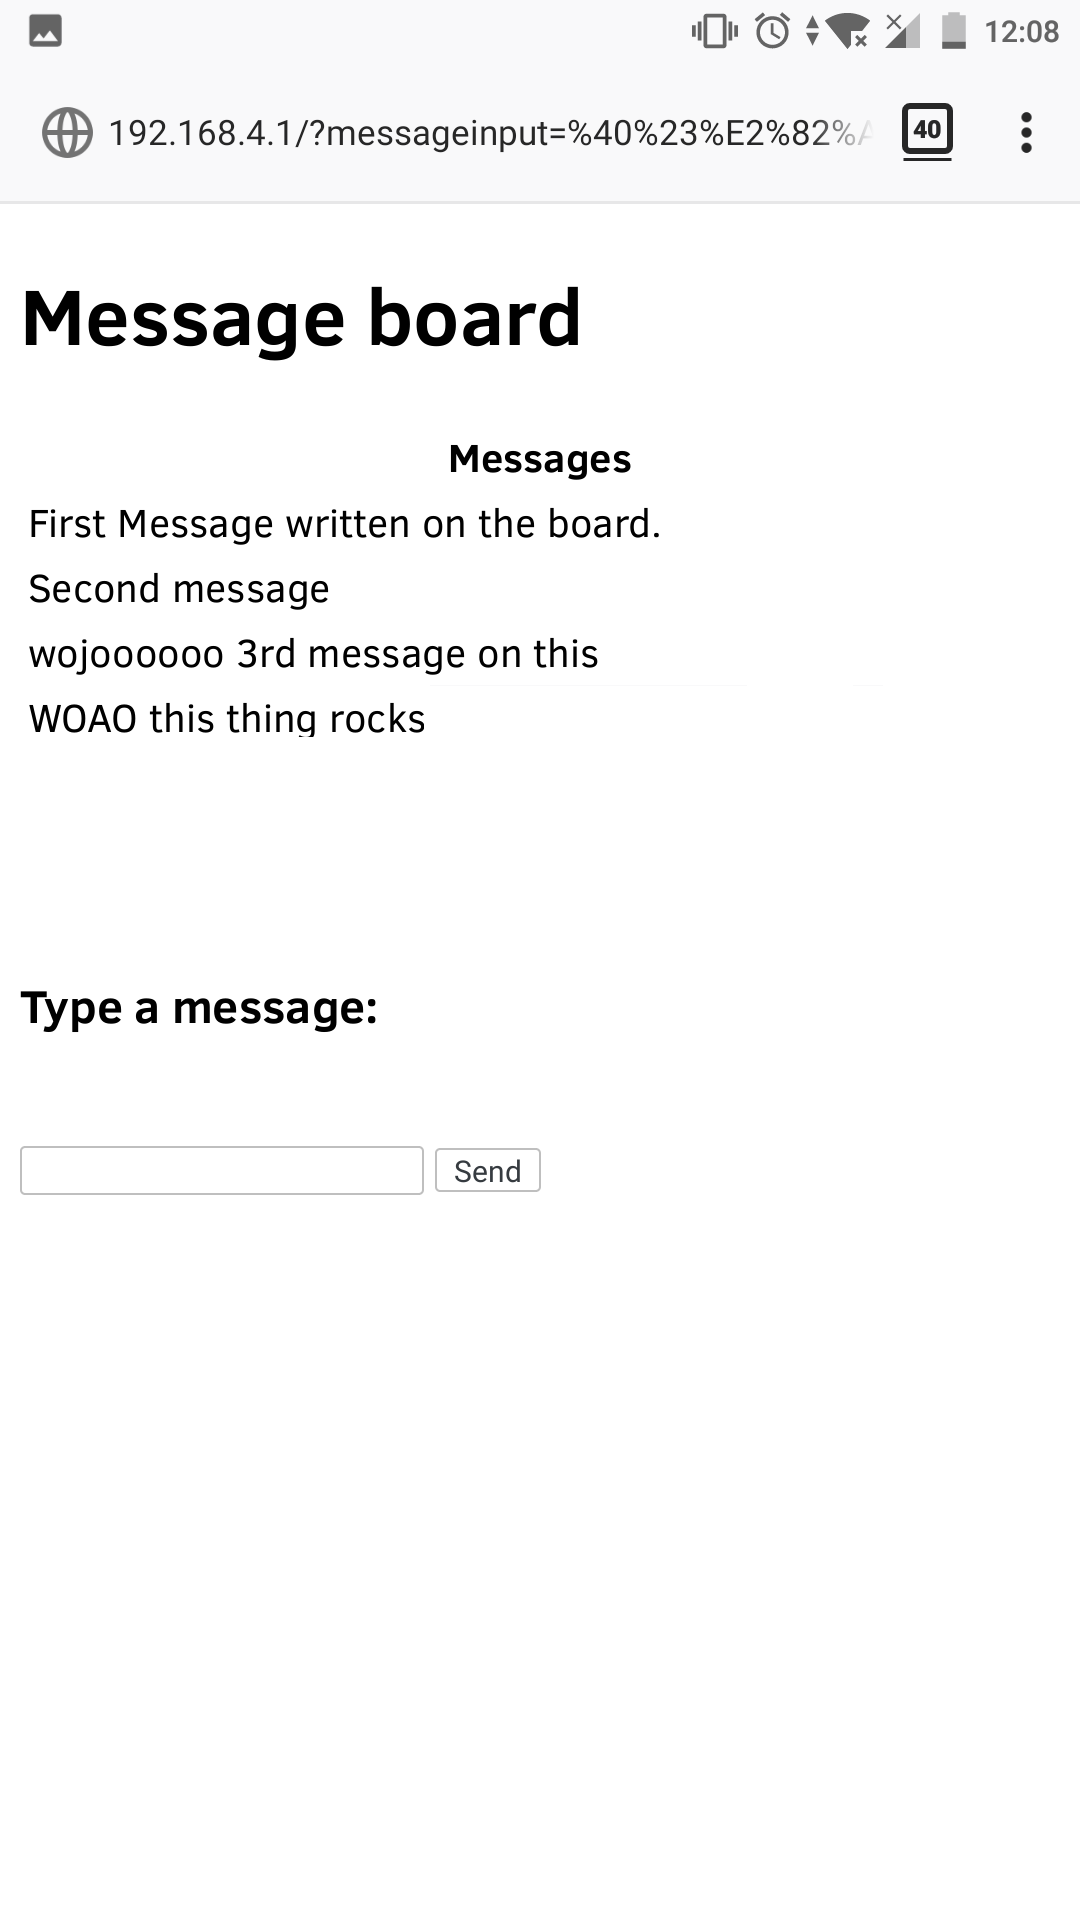
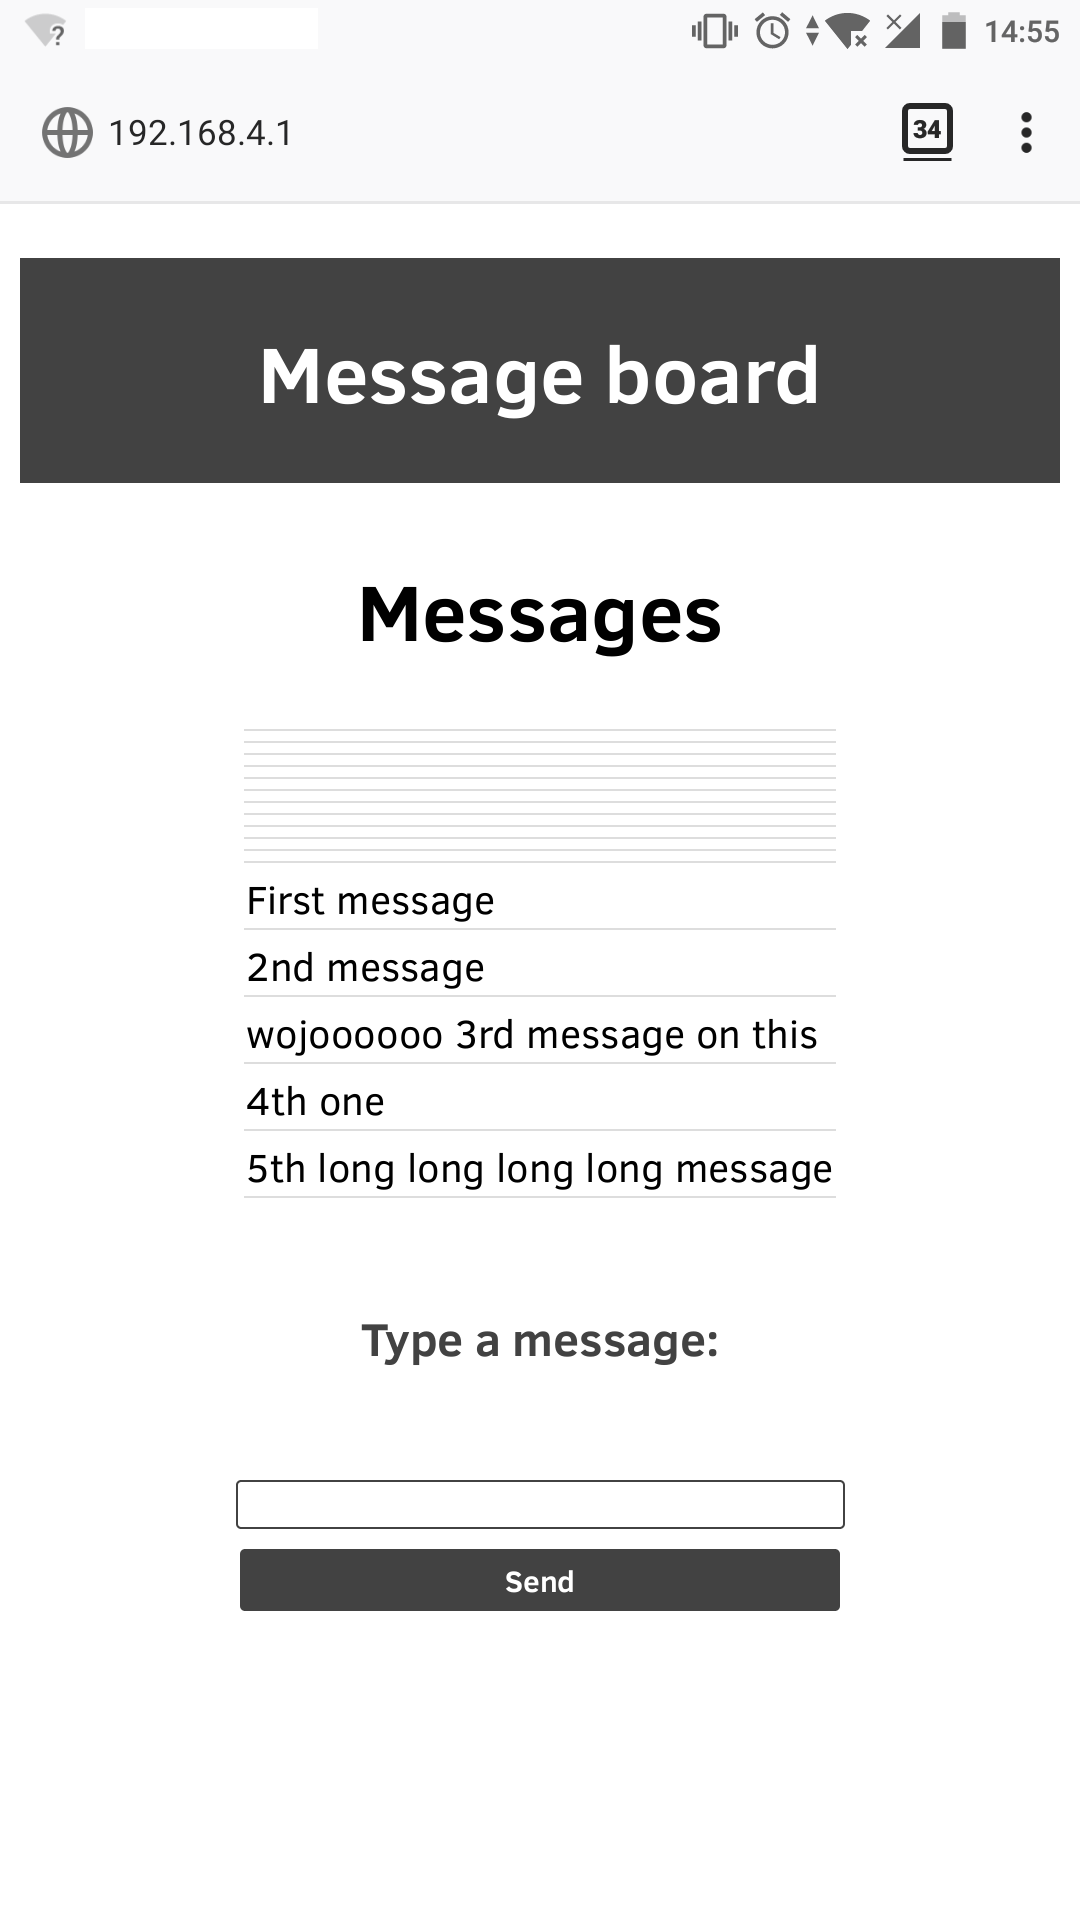
Change style for HTML and add new picture of it.

diff --git a/MicroBoard/Code/MicroBoard.py b/MicroBoard/Code/MicroBoard.py
@@ -63,7 +63,7 @@ def quick_decode(strdecode):
 def write_file(strMessage):
     """
     Write messages to the file 'messages.txt' coming from the input form.
-    
+
     Args:
         strMessage: String to be stored on the file
 
@@ -116,7 +116,7 @@ def linted_data():
 def main():
     """
     Main core of the script, all execution goes within here.
-    
+
     Returns:
             Nothing.
     """
@@ -124,34 +124,38 @@ def main():
     html = """<!DOCTYPE html>
         <html lang="en">
         <head>
-            <title>Message board</title>
-            <meta charset="utf-8">
-            <meta name="viewport" content="width=device-width, initial-scale=1">
-            <style>
-            body              { font-family: 'Arial'; background: #fff; }
-            a, h1, h2         { color: #377ba8; }
-            h1, h2            { font-family: 'Arial', serif; margin: 0; }
-            h1                { border-bottom: 2px solid #eee; }
-            h2                { font-size: 1.2em; }
-            h3                {font-family: 'Arial'; color: black; text-align: center;}
-            table             {table-layout: center;	font-family: 'Arial'; color: gray;}
-            th                {font-style: bold; text-align: center; height: 15px; border-bottom: 1px solid #ddd; padding: 5px}
-            td                {border-bottom: 1px solid #ddd; text-align: left}
-            form              {text-align: center;}
-            </style>
+        <title>Message board</title>
+        <meta charset="utf-8">
+        <meta name="viewport" content="width=device-width, initial-scale=1">
+        <style>
+        body              { font-family: 'Arial'; background: #fff; }
+        .h1_div			  { background-color: #424242; height: 90px;  line-height: 90px;  text-align: center; font-family: 'Arial';}
+        h1                { border-bottom: 1px; }
+        h3                { font-family: 'Arial'; color: #424242; text-align: center;}
+        table             { table-layout: center;	font-family: 'Arial';}
+        th                { font-style: bold; text-align: center; height: 15px; border-bottom: 1px solid #ddd; padding: 5px}
+        td                { border-bottom: 1px solid #ddd; text-align: left}
+        input[type=text]  { border: 1px solid #424242; margin: 4px 2px; width:20em;}
+        input[type=text]:focus { border: 3px solid #424242; margin: 4px 2px; -webkit-transition: width 0.4s ease-in-out; transition: width 0.4s ease-in-out;}
+        input[type=submit]{ background-color: #424242; border: 3px; color: #ffffff; padding: 4px 8px; text-decoration: none; margin: 4px 2px; cursor: pointer; width:20em; font-weight: bold; font-family: 'Arial';}
+        form              {text-align: center;}
+        </style>
         </head>
         <body>
-        <h1 align='center'>Message board</h1><br>
-        <table align='center'><tr><th>Messages</th></tr>%s</table>
+        <div>
+        <div class="h1_div">
+        <h1 align='center' style="color:#ffffff;">Message board</h1><br>
+        </div><div>
+        <table align='center'><tr><th><h1>Messages</h1></th></tr>%s</table>
         <form>
-            <br><h3>Type a message:</h3><br>
-            <input type="text" name="messageinput"></input>
-            <input type="submit" value="Send"></input>
-        </form>
+        <br><h3>Type a message:</h3><br>
+        <div><input type="text" name="messageinput"></input></div>
+        <div><input type="submit" value="Send"></input></div>
+        </form></div></div>
         </body>
         </html>
         """
-    
+
     addr = socket.getaddrinfo('192.168.4.1', 80)[0][-1]
     s = socket.socket()
     s.setsockopt(socket.SOL_SOCKET, socket.SO_REUSEADDR, 1)

diff --git a/MicroBoard/Release/MicroBoard.py b/MicroBoard/Release/MicroBoard.py
@@ -68,30 +68,37 @@ def main():
     html = """<!DOCTYPE html>
         <html lang="en">
         <head>
-            <title>Message board</title>
-            <meta charset="utf-8">
-            <meta name="viewport" content="width=device-width, initial-scale=1">
-            <style>
-            body              { font-family: 'Arial'; background: #fff; }
-            a, h1, h2         { color: #377ba8; }
-            h1, h2            { font-family: 'Arial', serif; margin: 0; }
-            h1                { border-bottom: 2px solid #eee; }
-            h2                { font-size: 1.2em; }
-            h3                {font-family: 'Arial'; color: black; text-align: center;}
-            table             {table-layout: center;	font-family: 'Arial'; color: gray;}
-            th                {font-style: bold; text-align: center; height: 15px; border-bottom: 1px solid #ddd; padding: 5px}
-            td                {border-bottom: 1px solid #ddd; text-align: left}
-            form              {text-align: center;}
-            </style>
+        <title>Message board</title>
+        <meta charset="utf-8">
+        <meta name="viewport" content="width=device-width, initial-scale=1">
+        <style>
+        body              { font-family: 'Arial'; background: #fff; }
+        .h1_div			  { background-color: #424242; height: 90px;  line-height: 90px;  text-align: center; font-family: 'Arial';}
+        h1                { border-bottom: 1px; }
+        h3                { font-family: 'Arial'; color: #424242; text-align: center;}
+        table             { table-layout: center;	font-family: 'Arial';}
+        th                { font-style: bold; text-align: center; height: 15px; border-bottom: 1px solid #ddd; padding: 5px}
+        td                { border-bottom: 1px solid #ddd; text-align: left}
+        input[type=text]  { border: 1px solid #424242; margin: 4px 2px; width:20em;}
+        input[type=text]:focus { border: 3px solid #424242; margin: 4px 2px; -webkit-transition: width 0.4s ease-in-out; transition: width 0.4s ease-in-out;}
+        input[type=submit]{ background-color: #424242; border: 3px; color: #ffffff; padding: 4px 8px; text-decoration: none; margin: 4px 2px; cursor: pointer; width:20em; font-weight: bold; font-family: 'Arial';}
+        form              {text-align: center;}
+        </style>
         </head>
         <body>
-        <h1 align='center'>Message board</h1><br>
-        <table align='center'><tr><th>Messages</th></tr>%s</table>
+        <div>
+        <div class="h1_div">
+        <h1 align='center' style="color:#ffffff;">Message board</h1><br>
+        </div>
+        <div>
+        <table align='center'><tr><th><h1>Messages</h1></th></tr>%s</table>
         <form>
-            <br><h3>Type a message:</h3><br>
-            <input type="text" name="messageinput"></input>
-            <input type="submit" value="Send"></input>
+        <br><h3>Type a message:</h3><br>
+        <div><input type="text" name="messageinput"></input></div>
+        <div><input type="submit" value="Send"></input></div>
         </form>
+        </div>
+        </div>
         </body>
         </html>
         """
